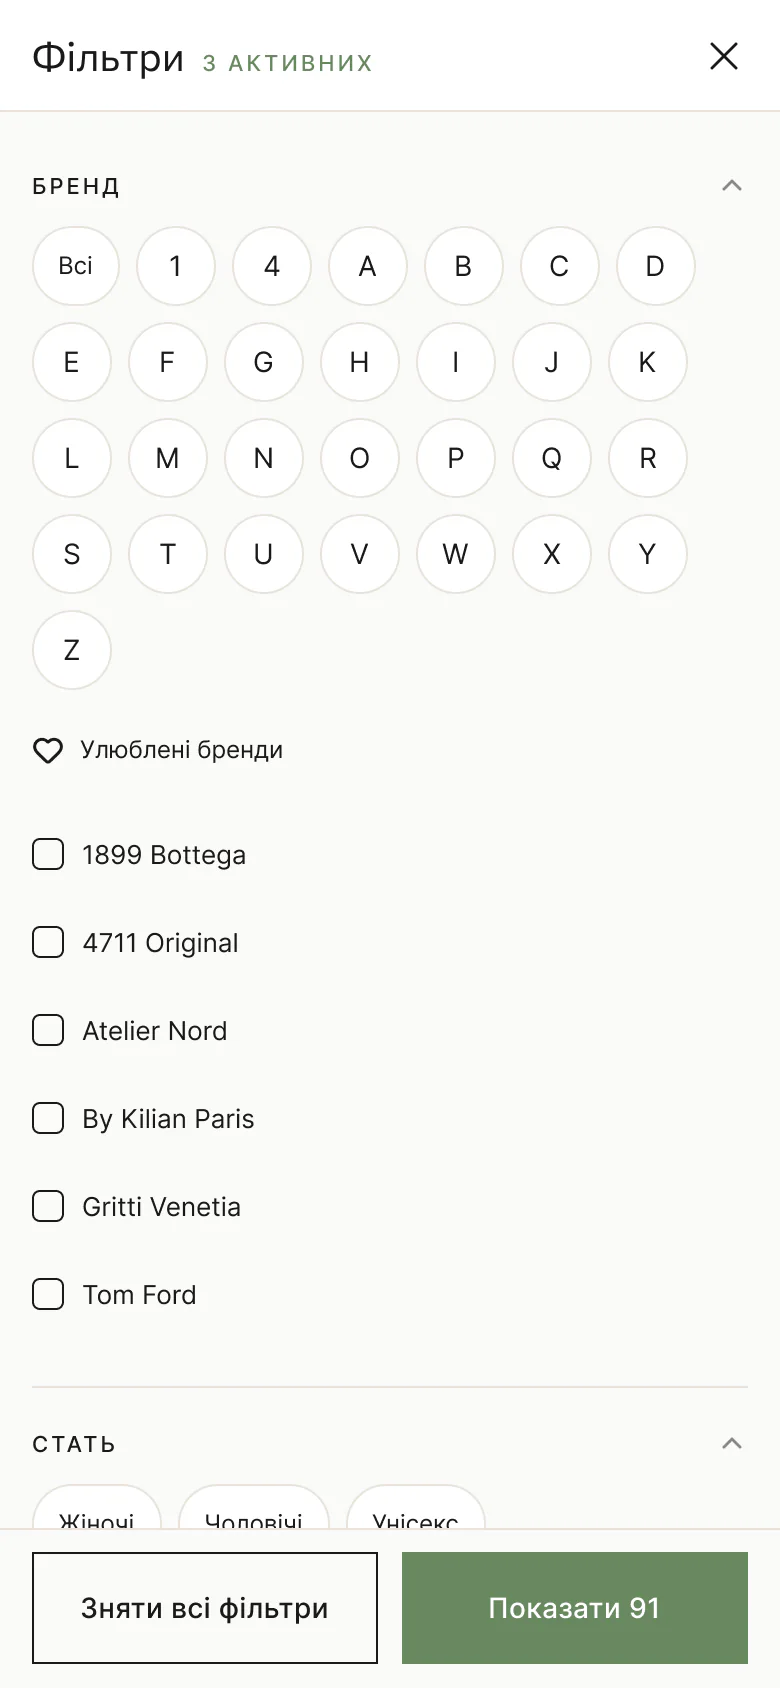
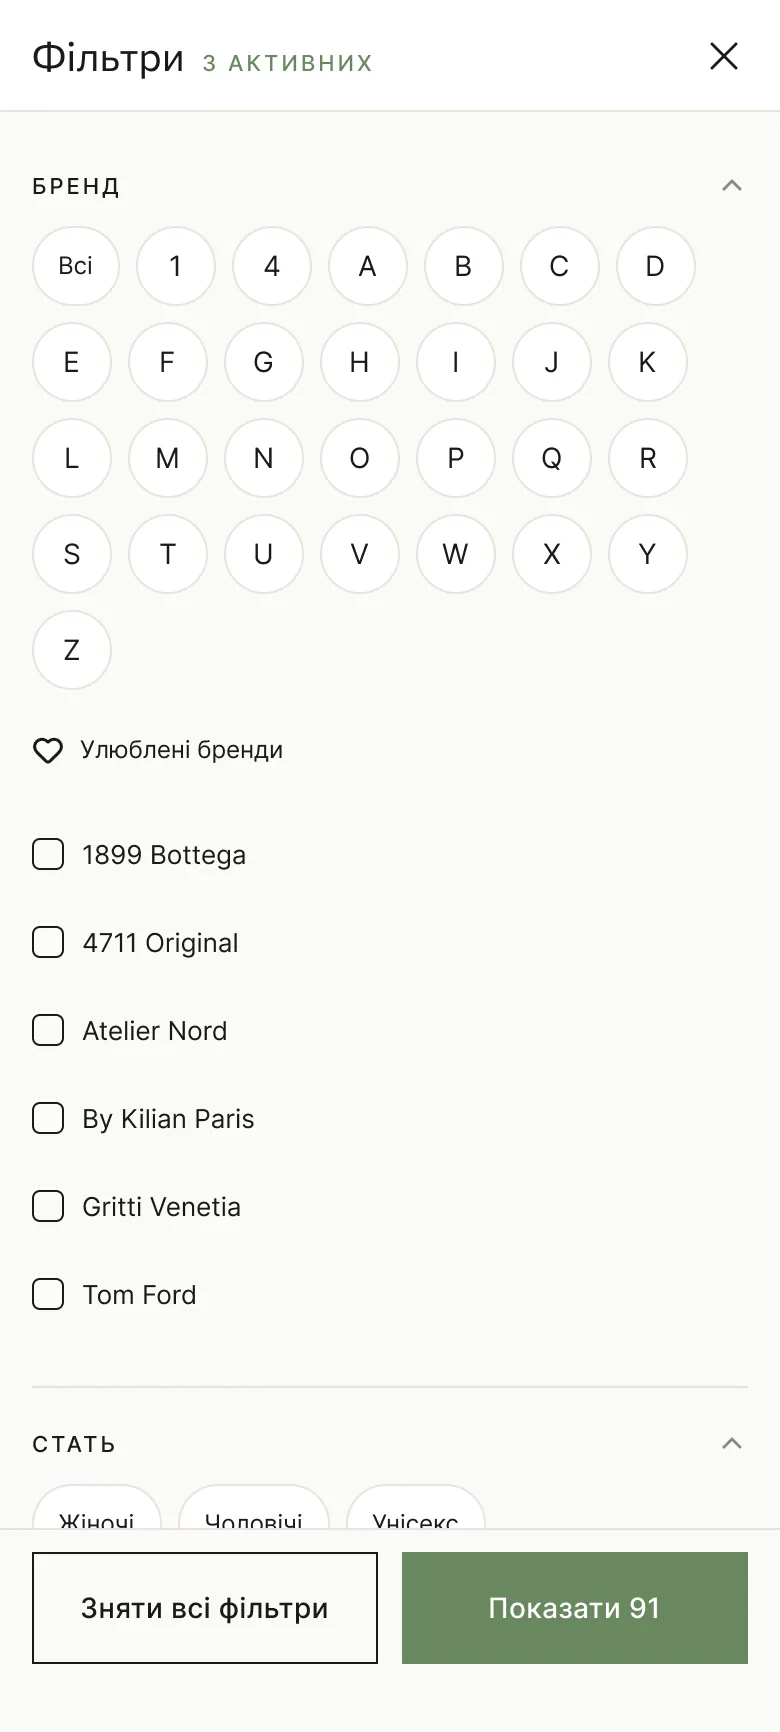
Nisha phone screenshots: iPhone safe area under bottom buttons
Seven screens had their sticky button 24-56 px from the bottom, so the rounded
corners ran into it. Each now has 68 px (34 pt at 2x) of screen background
under the last element; image heights updated in the markup.

diff --git a/uk/cases/nisha-perfume.html b/uk/cases/nisha-perfume.html
@@ -161,8 +161,8 @@
           </div>
           <div class="shots shots--row">
             <figure class="shot shot--tall"><img src="../../assets/img/cases/nisha/filters-before.webp" width="532" height="1052" alt="Старі фільтри: довгий закритий список брендів і ще кілька випадних списків під ним." loading="lazy"><figcaption>До: закриті списки</figcaption></figure>
-            <figure class="shot shot--phone shot--tall"><img src="../../assets/img/cases/nisha/filters-after-1.webp" width="390" height="844" alt="Нові фільтри на телефоні: індекс брендів A–Z, улюблені бренди і короткий список брендів." loading="lazy"><figcaption>Після: бренди A–Z і улюблені</figcaption></figure>
-            <figure class="shot shot--phone shot--tall"><img src="../../assets/img/cases/nisha/filters-after-2.webp" width="390" height="844" alt="Нові фільтри на телефоні: інгредієнти, які кожним дотиком перемикаються між «додати», «виключити» і нейтральним станом." loading="lazy"><figcaption>Після: додати або виключити ноти</figcaption></figure>
+            <figure class="shot shot--phone shot--tall"><img src="../../assets/img/cases/nisha/filters-after-1.webp" width="390" height="866" alt="Нові фільтри на телефоні: індекс брендів A–Z, улюблені бренди і короткий список брендів." loading="lazy"><figcaption>Після: бренди A–Z і улюблені</figcaption></figure>
+            <figure class="shot shot--phone shot--tall"><img src="../../assets/img/cases/nisha/filters-after-2.webp" width="390" height="866" alt="Нові фільтри на телефоні: інгредієнти, які кожним дотиком перемикаються між «додати», «виключити» і нейтральним станом." loading="lazy"><figcaption>Після: додати або виключити ноти</figcaption></figure>
           </div>
         </article>
 
@@ -175,7 +175,7 @@
           <div class="shots shots--desk-phone">
             <figure class="shot shot--before"><img src="../../assets/img/cases/nisha/before-product.webp" width="1100" height="932" alt="Стара сторінка товару Nisha: фото, ціна за мл, кнопки об’єму від 3 до 30 мл і кнопка «Купити», нижче простий опис." loading="lazy"><figcaption>До: стара сторінка товару</figcaption></figure>
             <figure class="shot"><img src="../../assets/img/cases/nisha/product-desktop.webp" width="1440" height="1120" alt="Сторінка товару Angels' Share на десктопі: об’єми, ціна за мл, кнопка «Додати в кошик» і піраміда нот." loading="lazy"><figcaption>Сторінка товару, десктоп</figcaption></figure>
-            <figure class="shot shot--phone"><img src="../../assets/img/cases/nisha/product-mobile.webp" width="390" height="844" alt="Сторінка товару Angels' Share на телефоні: вибір об’єму з обраними 3 мл і закріплена кнопка «Додати в кошик»." loading="lazy"><figcaption>Телефон</figcaption></figure>
+            <figure class="shot shot--phone"><img src="../../assets/img/cases/nisha/product-mobile.webp" width="390" height="866" alt="Сторінка товару Angels' Share на телефоні: вибір об’єму з обраними 3 мл і закріплена кнопка «Додати в кошик»." loading="lazy"><figcaption>Телефон</figcaption></figure>
           </div>
         </article>
 
@@ -200,9 +200,9 @@
           <div class="shots shots--desk-phones">
             <figure class="shot"><img src="../../assets/img/cases/nisha/set-builder.webp" width="1100" height="1375" alt="Конструктор сетів на десктопі: три варіанти бокса з фото, список ароматів із пошуком і фільтрами та підсумок сету з п’ятьма ароматами й ціною." loading="lazy"><figcaption>Конструктор сетів, десктоп</figcaption></figure>
             <div class="shots__phones">
-              <figure class="shot shot--phone"><img src="../../assets/img/cases/nisha/set-builder-m1.webp" width="390" height="844" alt="Конструктор сетів на телефоні, крок 1: розмір і тип бокса, закріплена кнопка «Додати сет» з ціною." loading="lazy"><figcaption>1. Бокс</figcaption></figure>
-              <figure class="shot shot--phone"><img src="../../assets/img/cases/nisha/set-builder-m2.webp" width="390" height="844" alt="Конструктор сетів на телефоні, крок 2: пошук ароматів, чіпи-фільтри і список із позначеними ароматами." loading="lazy"><figcaption>2. Аромати</figcaption></figure>
-              <figure class="shot shot--phone"><img src="../../assets/img/cases/nisha/set-builder-m3.webp" width="390" height="844" alt="Конструктор сетів на телефоні: підсумок сету з п’ятьма ароматами, пакуванням і ціною." loading="lazy"><figcaption>3. Підсумок сету</figcaption></figure>
+              <figure class="shot shot--phone"><img src="../../assets/img/cases/nisha/set-builder-m1.webp" width="390" height="859" alt="Конструктор сетів на телефоні, крок 1: розмір і тип бокса, закріплена кнопка «Додати сет» з ціною." loading="lazy"><figcaption>1. Бокс</figcaption></figure>
+              <figure class="shot shot--phone"><img src="../../assets/img/cases/nisha/set-builder-m2.webp" width="390" height="858" alt="Конструктор сетів на телефоні, крок 2: пошук ароматів, чіпи-фільтри і список із позначеними ароматами." loading="lazy"><figcaption>2. Аромати</figcaption></figure>
+              <figure class="shot shot--phone"><img src="../../assets/img/cases/nisha/set-builder-m3.webp" width="390" height="859" alt="Конструктор сетів на телефоні: підсумок сету з п’ятьма ароматами, пакуванням і ціною." loading="lazy"><figcaption>3. Підсумок сету</figcaption></figure>
             </div>
           </div>
         </article>
@@ -239,7 +239,7 @@
             <p>Просто зі сторінки товару можна надіслати натяк партнеру чи другу: кому, email, привід і повідомлення, з прев’ю листа.</p>
           </div>
           <div class="shots shots--row">
-            <figure class="shot shot--phone"><img src="../../assets/img/cases/nisha/app-product-hint.webp" width="390" height="844" alt="Сторінка товару Black Phantom у застосунку з вибором об’єму і кнопкою «Натякнути на подарунок»." loading="lazy"><figcaption>Сторінка товару з кнопкою натяку</figcaption></figure>
+            <figure class="shot shot--phone"><img src="../../assets/img/cases/nisha/app-product-hint.webp" width="390" height="850" alt="Сторінка товару Black Phantom у застосунку з вибором об’єму і кнопкою «Натякнути на подарунок»." loading="lazy"><figcaption>Сторінка товару з кнопкою натяку</figcaption></figure>
             <figure class="shot shot--phone"><img src="../../assets/img/cases/nisha/hint-empty.webp" width="390" height="988" alt="Вікно «Натякнути на подарунок» поверх сторінки товару: кому, email, привід, повідомлення і прев’ю листа з іконкою подарунка." loading="lazy"><figcaption>Форма натяку</figcaption></figure>
             <figure class="shot shot--phone"><img src="../../assets/img/cases/nisha/hint-filled.webp" width="390" height="1004" alt="Заповнена форма натяку з прев’ю листа, який отримає людина." loading="lazy"><figcaption>Заповнена, з прев’ю листа</figcaption></figure>
           </div>

diff --git a/cases/nisha-perfume.html b/cases/nisha-perfume.html
@@ -161,8 +161,8 @@
           </div>
           <div class="shots shots--row">
             <figure class="shot shot--tall"><img src="../assets/img/cases/nisha/filters-before.webp" width="532" height="1052" alt="Old filters: a long closed list of brands and more dropdowns below it." loading="lazy"><figcaption>Before: closed dropdowns</figcaption></figure>
-            <figure class="shot shot--phone shot--tall"><img src="../assets/img/cases/nisha/filters-after-1.webp" width="390" height="844" alt="New mobile filters: an A–Z brand index, favourite brands and a short brand list." loading="lazy"><figcaption>After: brands A–Z and favourites</figcaption></figure>
-            <figure class="shot shot--phone shot--tall"><img src="../assets/img/cases/nisha/filters-after-2.webp" width="390" height="844" alt="New mobile filters: ingredients that switch between include, exclude and neutral with each tap." loading="lazy"><figcaption>After: include or exclude notes</figcaption></figure>
+            <figure class="shot shot--phone shot--tall"><img src="../assets/img/cases/nisha/filters-after-1.webp" width="390" height="866" alt="New mobile filters: an A–Z brand index, favourite brands and a short brand list." loading="lazy"><figcaption>After: brands A–Z and favourites</figcaption></figure>
+            <figure class="shot shot--phone shot--tall"><img src="../assets/img/cases/nisha/filters-after-2.webp" width="390" height="866" alt="New mobile filters: ingredients that switch between include, exclude and neutral with each tap." loading="lazy"><figcaption>After: include or exclude notes</figcaption></figure>
           </div>
         </article>
 
@@ -175,7 +175,7 @@
           <div class="shots shots--desk-phone">
             <figure class="shot shot--before"><img src="../assets/img/cases/nisha/before-product.webp" width="1100" height="932" alt="The old Nisha product page: a photo, the price per ml, volume buttons from 3 to 30 ml and a Buy button, with a plain description below." loading="lazy"><figcaption>Before: the old product page</figcaption></figure>
             <figure class="shot"><img src="../assets/img/cases/nisha/product-desktop.webp" width="1440" height="1120" alt="Product page for Angels' Share on desktop: volumes, price per ml, add to cart and the note pyramid." loading="lazy"><figcaption>Product page, desktop</figcaption></figure>
-            <figure class="shot shot--phone"><img src="../assets/img/cases/nisha/product-mobile.webp" width="390" height="844" alt="Product page for Angels' Share on mobile: volume picker with 3 ml selected and a sticky add-to-cart bar." loading="lazy"><figcaption>Mobile</figcaption></figure>
+            <figure class="shot shot--phone"><img src="../assets/img/cases/nisha/product-mobile.webp" width="390" height="866" alt="Product page for Angels' Share on mobile: volume picker with 3 ml selected and a sticky add-to-cart bar." loading="lazy"><figcaption>Mobile</figcaption></figure>
           </div>
         </article>
 
@@ -200,9 +200,9 @@
           <div class="shots shots--desk-phones">
             <figure class="shot"><img src="../assets/img/cases/nisha/set-builder.webp" width="1100" height="1375" alt="Set builder on desktop: three box options with photos, a scent list with search and filters, and the set summary with five scents and the total price." loading="lazy"><figcaption>Set builder, desktop</figcaption></figure>
             <div class="shots__phones">
-              <figure class="shot shot--phone"><img src="../assets/img/cases/nisha/set-builder-m1.webp" width="390" height="844" alt="Set builder on mobile, step 1: box size and type, with a sticky “Add set” button and the price." loading="lazy"><figcaption>1. Box</figcaption></figure>
-              <figure class="shot shot--phone"><img src="../assets/img/cases/nisha/set-builder-m2.webp" width="390" height="844" alt="Set builder on mobile, step 2: scent search, filter chips and a list with selected scents checked." loading="lazy"><figcaption>2. Scents</figcaption></figure>
-              <figure class="shot shot--phone"><img src="../assets/img/cases/nisha/set-builder-m3.webp" width="390" height="844" alt="Set builder on mobile: the set summary with five scents, packaging and the total." loading="lazy"><figcaption>3. Set summary</figcaption></figure>
+              <figure class="shot shot--phone"><img src="../assets/img/cases/nisha/set-builder-m1.webp" width="390" height="859" alt="Set builder on mobile, step 1: box size and type, with a sticky “Add set” button and the price." loading="lazy"><figcaption>1. Box</figcaption></figure>
+              <figure class="shot shot--phone"><img src="../assets/img/cases/nisha/set-builder-m2.webp" width="390" height="858" alt="Set builder on mobile, step 2: scent search, filter chips and a list with selected scents checked." loading="lazy"><figcaption>2. Scents</figcaption></figure>
+              <figure class="shot shot--phone"><img src="../assets/img/cases/nisha/set-builder-m3.webp" width="390" height="859" alt="Set builder on mobile: the set summary with five scents, packaging and the total." loading="lazy"><figcaption>3. Set summary</figcaption></figure>
             </div>
           </div>
         </article>
@@ -239,7 +239,7 @@
             <p>Right from the product page, people can send a partner or a friend a hint: who it’s for, their email, the occasion and a message, with a preview of the email.</p>
           </div>
           <div class="shots shots--row">
-            <figure class="shot shot--phone"><img src="../assets/img/cases/nisha/app-product-hint.webp" width="390" height="844" alt="App product page for Black Phantom with volume options and the “Hint about a gift” button." loading="lazy"><figcaption>Product page with the hint button</figcaption></figure>
+            <figure class="shot shot--phone"><img src="../assets/img/cases/nisha/app-product-hint.webp" width="390" height="850" alt="App product page for Black Phantom with volume options and the “Hint about a gift” button." loading="lazy"><figcaption>Product page with the hint button</figcaption></figure>
             <figure class="shot shot--phone"><img src="../assets/img/cases/nisha/hint-empty.webp" width="390" height="988" alt="“Hint about a gift” sheet over the product page: recipient, email, occasion, message and an email preview with a gift icon." loading="lazy"><figcaption>The hint form</figcaption></figure>
             <figure class="shot shot--phone"><img src="../assets/img/cases/nisha/hint-filled.webp" width="390" height="1004" alt="The hint form filled in, with a preview of the email the recipient will get." loading="lazy"><figcaption>Filled in, with the email preview</figcaption></figure>
           </div>
